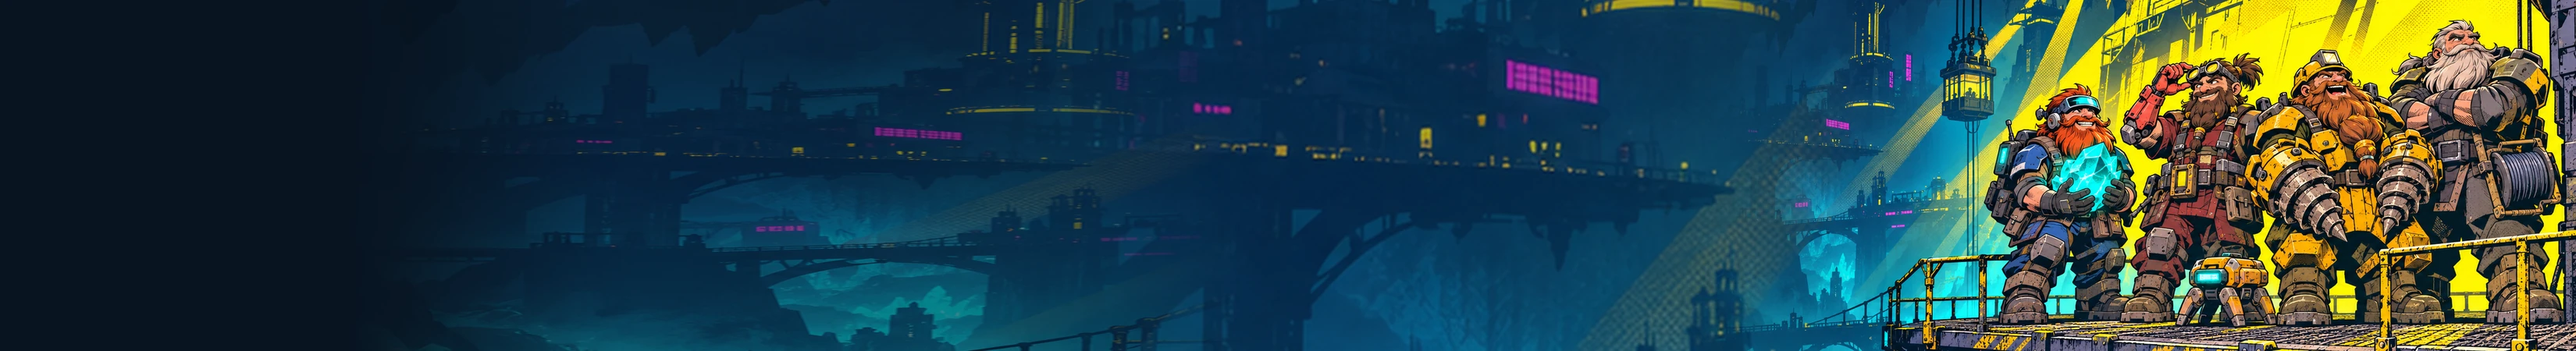
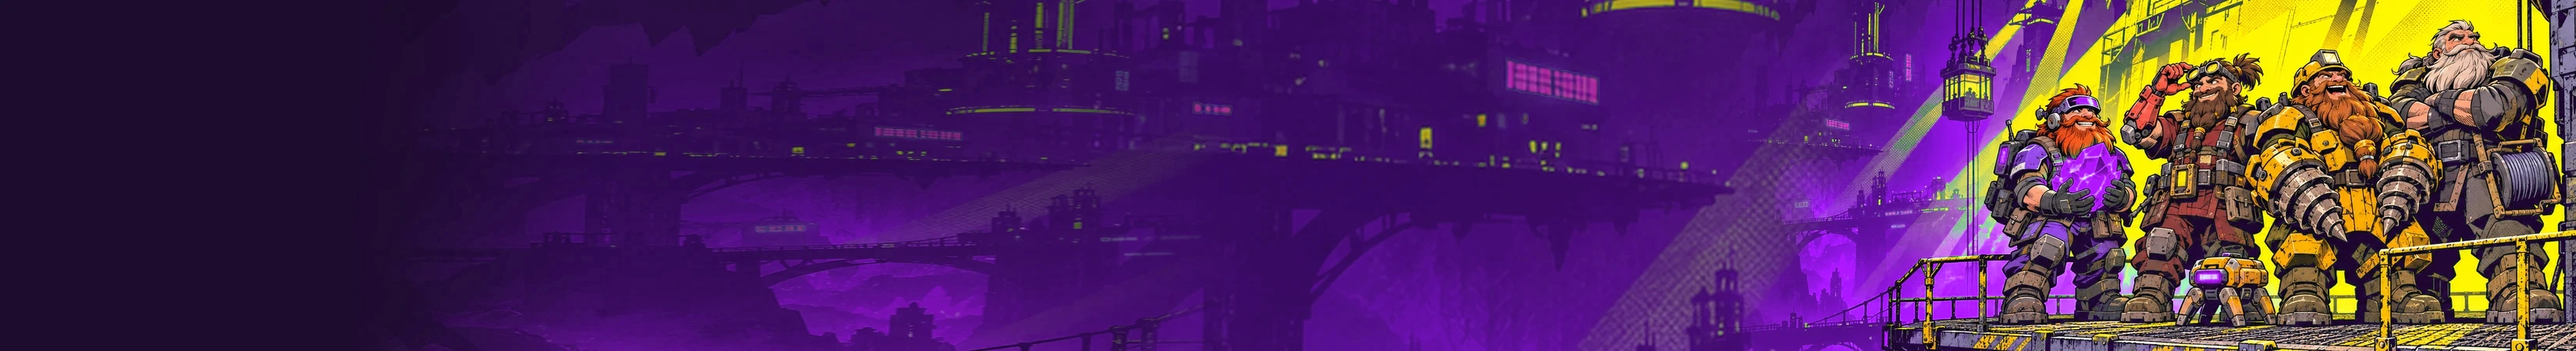
style(ui): shift Night City to a violet and acid-yellow palette

diff --git a/apps/desktop/src/themes/night-city.css b/apps/desktop/src/themes/night-city.css
@@ -2,68 +2,68 @@
   --neon-yellow: #f2f52e;
   --neon-cyan: #52e5ed;
   --neon-pink: #ff499b;
-  --neon-ink: #0a101a;
-  --mc-accent: var(--neon-cyan);
-  --mc-accent-strong: #a4fcff;
-  --mc-text: #edf5fc;
-  --mc-muted: #b0bdcd;
-  --mc-subtle: #92a5bb;
+  --neon-ink: #160e23;
+  --mc-accent: #cf9bff;
+  --mc-accent-strong: #e6c6ff;
+  --mc-text: #f5effb;
+  --mc-muted: #cbbada;
+  --mc-subtle: #ac9abb;
   --mc-window-bg: var(--neon-ink);
-  --mc-sidebar-bg: #101725;
-  --mc-card-bg: #151f2c;
-  --mc-header-bg: #101a26;
-  --mc-control-bg: #172331;
-  --mc-control-hover-bg: #1d303e;
-  --mc-border: #2b394a;
-  --mc-border-control: #435568;
-  --mc-border-strong: #617589;
-  --mc-hover: #192d3a;
-  --mc-selected: #193742;
-  --mc-table-header-bg: #14222e;
+  --mc-sidebar-bg: #221332;
+  --mc-card-bg: #261c32;
+  --mc-header-bg: #29183b;
+  --mc-control-bg: #30223e;
+  --mc-control-hover-bg: #3c2b50;
+  --mc-border: #413149;
+  --mc-border-control: #60506e;
+  --mc-border-strong: #826891;
+  --mc-hover: #392944;
+  --mc-selected: #4a2d63;
+  --mc-table-header-bg: #2c1d3a;
   --mc-primary-bg: var(--neon-yellow);
   --mc-shadow: 0 12px 32px #0008;
   --library-brass: var(--neon-pink);
-  --library-mint: var(--neon-cyan);
+  --library-mint: var(--mc-accent);
 
   .app-sidebar-host {
-    background: repeating-linear-gradient(125deg, transparent 0 4px, #52e5ed68 4px 6px) 16px calc(100% - 70px) / 38px 5px no-repeat, var(--mc-sidebar-bg);
+    background: repeating-linear-gradient(125deg, transparent 0 4px, #cf9bff88 4px 6px) 16px calc(100% - 70px) / 38px 5px no-repeat, var(--mc-sidebar-bg);
   }
   .brand-icon-shell, .glass-primary-action.ant-btn-primary:not(:disabled), .library-install-button.ant-btn-primary:not(:disabled),
   .chrome-settings-pill--active, .game-settings button.game-settings-save, .rescue button.rescue-btn--primary, .page-error-retry { color: var(--neon-ink); }
   .library-install-button.ant-btn-primary:not(:disabled), .brand-icon-shell { box-shadow: inset 0 -2px #bdc700; }
   .brand-lockup h1, .library-atlas h2 { color: var(--neon-yellow); }
   .app-sidebar .ant-menu-item-selected {
-    color: var(--neon-cyan) !important;
+    color: var(--mc-accent-strong) !important;
     background: var(--mc-selected) !important;
-    box-shadow: inset 3px 0 var(--neon-cyan);
+    box-shadow: inset 3px 0 var(--mc-accent);
   }
-  .app-sidebar .ant-menu-item-selected::before { background: var(--neon-cyan); box-shadow: none; }
+  .app-sidebar .ant-menu-item-selected::before { background: var(--mc-accent); box-shadow: none; }
   .chrome-utilities { border-image: linear-gradient(transparent, var(--neon-pink), transparent) 1; }
   .chrome-agent-btn[aria-busy="true"] .agent-eye { fill: var(--neon-pink); }
   .chrome-agent-btn--unread::after { background: var(--neon-pink); }
-  :is(.chrome-avatar-button,.chrome-avatar-identity) svg { filter: grayscale(1) sepia(1) hue-rotate(132deg) saturate(2.5); }
+  :is(.chrome-avatar-button,.chrome-avatar-identity) svg { filter: grayscale(1) sepia(1) hue-rotate(227deg) saturate(2); }
   .library-game-emblem--drg { background-color: var(--neon-yellow); }
-  .library-atlas { --atlas-rule: var(--neon-pink); background: #081421; }
-  .library-atlas .library-atlas-kicker { color: var(--neon-cyan); }
-  .library-atlas--drg .library-atlas-art { background: #081421 url('./night-shift.webp') right center / auto 100% no-repeat; }
+  .library-atlas { --atlas-rule: var(--neon-pink); background: #1d0c2d; }
+  .library-atlas .library-atlas-kicker { color: var(--mc-accent-strong); }
+  .library-atlas--drg .library-atlas-art { background: #1d0c2d url('./night-shift.webp') right center / auto 100% no-repeat; }
   .library-atlas--drg .library-atlas-art::after { background: none; animation: none; }
-  .library-survey { filter: grayscale(1) sepia(.9) hue-rotate(139deg) saturate(3); }
+  .library-survey { filter: grayscale(1) sepia(.9) hue-rotate(227deg) saturate(3); }
   .library-survey::before { opacity: .65; }
   [data-module="mintcat.library"].library {
     --library-name-ink: var(--mc-text);
-    --library-mint: var(--neon-cyan);
+    --library-mint: var(--mc-accent);
     --library-brass: var(--neon-pink);
   }
-  [data-module="mintcat.library"] .library-groupby-opt.is-active { color: var(--neon-cyan); background: var(--mc-selected); }
+  [data-module="mintcat.library"] .library-groupby-opt.is-active { color: var(--mc-accent-strong); background: var(--mc-selected); }
   [data-module="mintcat.library"] .library-mod-row .ant-switch-small.ant-switch-checked { background: var(--neon-cyan); }
   [data-module="mintcat.library"] .library-mod-row .ant-switch-small.ant-switch-checked .ant-switch-handle::before { background: #12303a; }
   .library-toolbar .library-install-button.library-deploy-sweep::after { background: linear-gradient(90deg, transparent, #ff499bbf 48%, #ffecfcaa 53%, transparent); }
-  .library-file-caption, .library-drag-ghost { background: #111e2a; color: var(--mc-text); border-color: var(--neon-cyan); box-shadow: var(--mc-shadow); }
-  .library-drag-ghost-icon, .library-drag-ghost-hint { color: var(--neon-cyan); background: var(--mc-selected); }
-  .mc-profile-plate { color: var(--mc-text); background: linear-gradient(115deg, #101725, #153842); border-color: var(--mc-border-control); }
-  .mc-profile-marker, .mc-profile-description, .mc-profile-counts { color: #abdae3; }
-  .mc-profile-marker::before { background: var(--neon-cyan); }
-  .mc-profile-plate::after { filter: grayscale(1) sepia(.8) hue-rotate(130deg) saturate(2); }
+  .library-file-caption, .library-drag-ghost { background: var(--mc-header-bg); color: var(--mc-text); border-color: var(--mc-accent); box-shadow: var(--mc-shadow); }
+  .library-drag-ghost-icon, .library-drag-ghost-hint { color: var(--mc-accent); background: var(--mc-selected); }
+  .mc-profile-plate { color: var(--mc-text); background: linear-gradient(115deg, var(--mc-sidebar-bg), var(--mc-selected)); border-color: var(--mc-border-control); }
+  .mc-profile-marker, .mc-profile-description, .mc-profile-counts { color: var(--mc-accent-strong); }
+  .mc-profile-marker::before { background: var(--mc-accent); }
+  .mc-profile-plate::after { filter: grayscale(1) sepia(.8) hue-rotate(227deg) saturate(2); }
   .library-unsaved-badge, .game-settings-badge--dirty { color: #ffc77e; background: #392d23; }
   .game-settings-badge--clean { color: #7ee2ba; }
   @media (prefers-reduced-motion: no-preference) {
@@ -75,7 +75,7 @@
   }
 }
 @keyframes night-register {
-  35% { text-shadow: -2px 0 #52e5ed, 2px 0 #ff499b; }
+  35% { text-shadow: -2px 0 var(--mc-accent), 2px 0 var(--neon-pink); }
   100% { text-shadow: none; }
 }
-@keyframes night-import { 0%, 27% { background-color: #23404a; } }
+@keyframes night-import { 0%, 27% { background-color: var(--mc-selected); } }

diff --git a/packages/sdk-ui/src/night-city.ts b/packages/sdk-ui/src/night-city.ts
@@ -1,28 +1,28 @@
 import type { ThemeConfig } from 'antd';
 
-const ink = '#0a101a';
-const surface = '#151f2c';
-const selected = '#193742';
-const cyan = '#52e5ed';
+const ink = '#160e23';
+const surface = '#261c32';
+const selected = '#4a2d63';
+const violet = '#cf9bff';
 const yellow = '#f2f52e';
 
 export const nightCityConfig: ThemeConfig = {
   cssVar: { key: 'mintcat-NightCity' },
   token: {
-    colorPrimary: cyan, colorInfo: cyan, colorSuccess: '#6eddb2', colorWarning: '#ffb454', colorError: '#fa7387',
-    colorText: '#edf5fc', colorTextSecondary: '#b0bdcd', colorTextTertiary: '#92a5bb',
-    colorBgLayout: 'transparent', colorBgContainer: surface, colorBgElevated: '#1b2938',
-    colorBorder: '#435568', colorBorderSecondary: '#2b394a',
+    colorPrimary: violet, colorInfo: violet, colorSuccess: '#6eddb2', colorWarning: '#ffb454', colorError: '#fa7387',
+    colorText: '#f5effb', colorTextSecondary: '#cbbada', colorTextTertiary: '#ac9abb',
+    colorBgLayout: 'transparent', colorBgContainer: surface, colorBgElevated: '#33243f',
+    colorBorder: '#60506e', colorBorderSecondary: '#413149',
     borderRadius: 6, borderRadiusSM: 4, borderRadiusLG: 9,
     fontSize: 13, controlHeight: 36, controlHeightSM: 28,
     fontFamily: '-apple-system, BlinkMacSystemFont, "SF Pro Text", "PingFang SC", "Microsoft YaHei", sans-serif',
   },
   components: {
     Button: { colorPrimary: yellow, colorPrimaryHover: '#fdff75', colorPrimaryActive: '#dade20', primaryColor: ink, primaryShadow: 'none' },
-    Menu: { itemBg: 'transparent', itemColor: '#b0bdcd', itemSelectedBg: selected, itemSelectedColor: cyan, itemBorderRadius: 6 },
-    Table: { colorBgContainer: 'transparent', headerBg: '#14222e', headerColor: '#b0bdcd', headerSplitColor: 'transparent', rowHoverBg: '#192c39', rowSelectedBg: selected, cellPaddingBlock: 8, cellPaddingInline: 12 },
+    Menu: { itemBg: 'transparent', itemColor: '#cbbada', itemSelectedBg: selected, itemSelectedColor: violet, itemBorderRadius: 6 },
+    Table: { colorBgContainer: 'transparent', headerBg: '#2c1d3a', headerColor: '#cbbada', headerSplitColor: 'transparent', rowHoverBg: '#392944', rowSelectedBg: selected, cellPaddingBlock: 8, cellPaddingInline: 12 },
     Card: { headerBg: 'transparent', paddingLG: 16 },
     Select: { optionSelectedBg: selected },
-    Switch: { handleBg: ink },
+    Switch: { colorPrimary: '#52e5ed', handleBg: ink },
   },
 };

diff --git a/apps/desktop/src/settings-overview.ts b/apps/desktop/src/settings-overview.ts
@@ -70,12 +70,12 @@ const THEME_OPTIONS: readonly ThemeOption[] = [
   {
     id: 'NightCity',
     name: '夜城霓虹',
-    desc: '电黄主操作、冰青选中态与品红扫描光',
-    windowBg: '#0a101a',
-    sidebarBg: '#101725',
-    cardBg: '#151f2c',
+    desc: '紫晶矿区、电黄主操作与冰青开关',
+    windowBg: '#160e23',
+    sidebarBg: '#221332',
+    cardBg: '#261c32',
     accent: '#f2f52e',
-    text: '#edf5fc',
+    text: '#f5effb',
   },
 ];
 

diff --git a/ChangeLog.md b/ChangeLog.md
@@ -2,7 +2,7 @@
 
 ### 夜城霓虹主题
 
-- 新增可独立切换的「夜城霓虹」：深蓝黑工作区、电黄主操作、冰青选中态与品红扫光。DRG 专属横幅描绘四名矿工和 Molly 在地下霓虹矿区交班。布局不变，已选皮肤不会被覆盖。
+- 新增可独立切换的「夜城霓虹」：深紫工作区、淡紫选中态、电黄主操作与冰青开关。DRG 专属横幅中，紫色矿灯和电黄背光照亮四名矿工与 Molly。布局不变，已选皮肤不会被覆盖。
 
 ### 草莓奶霜主题
 
